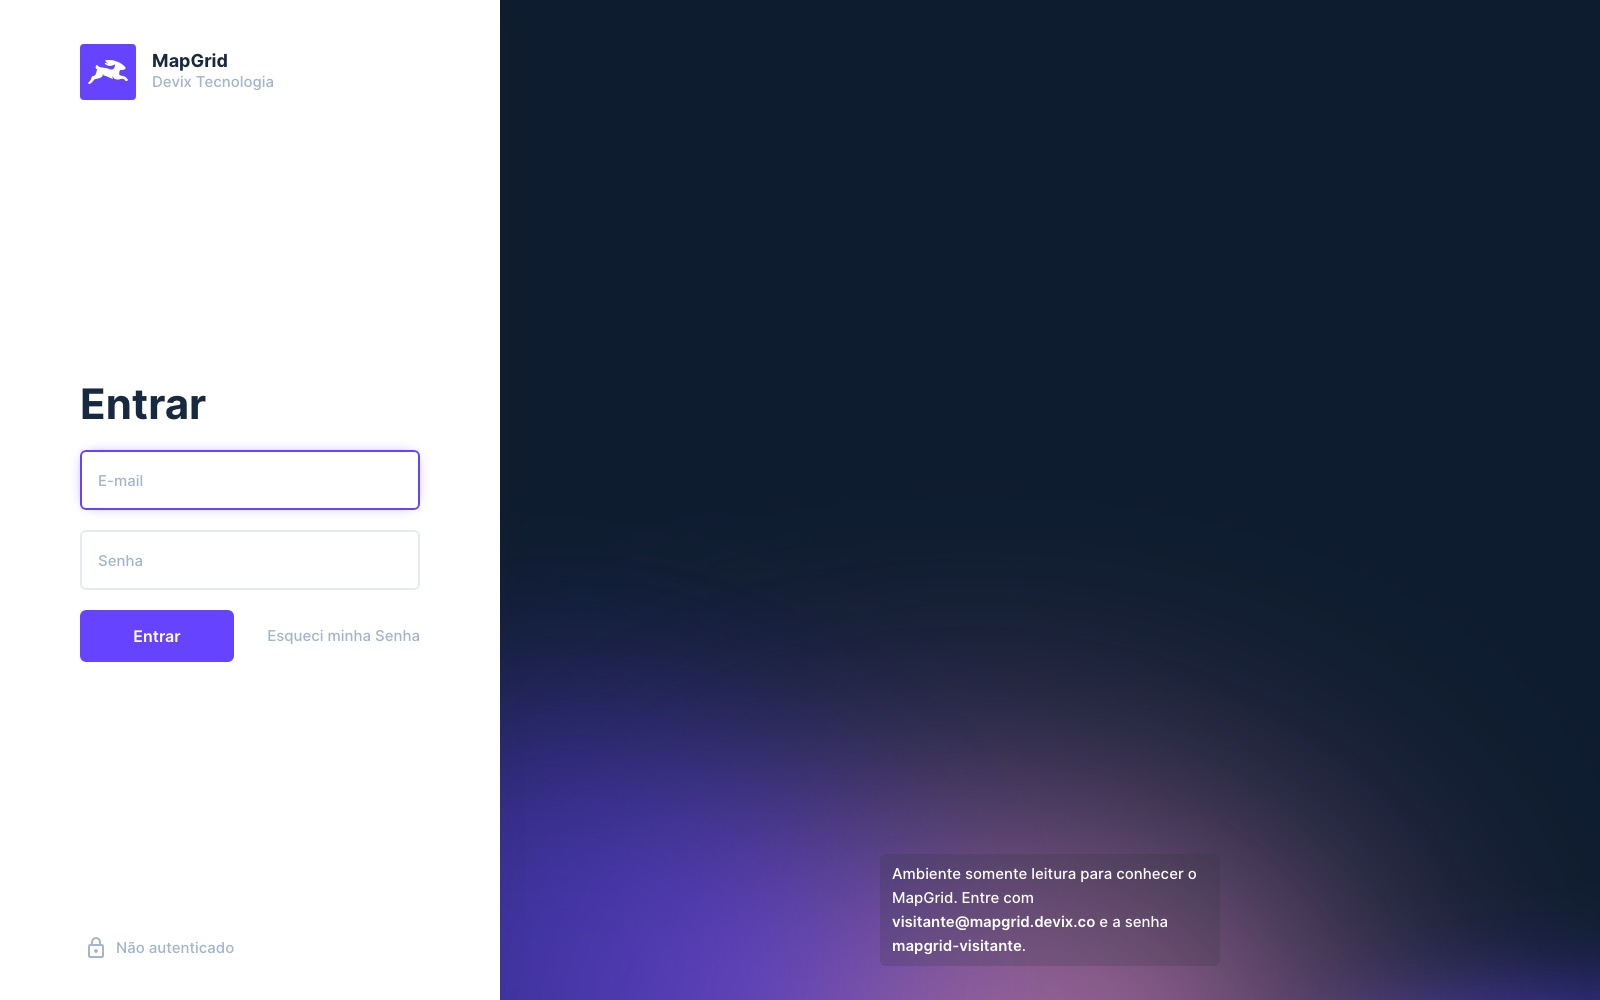
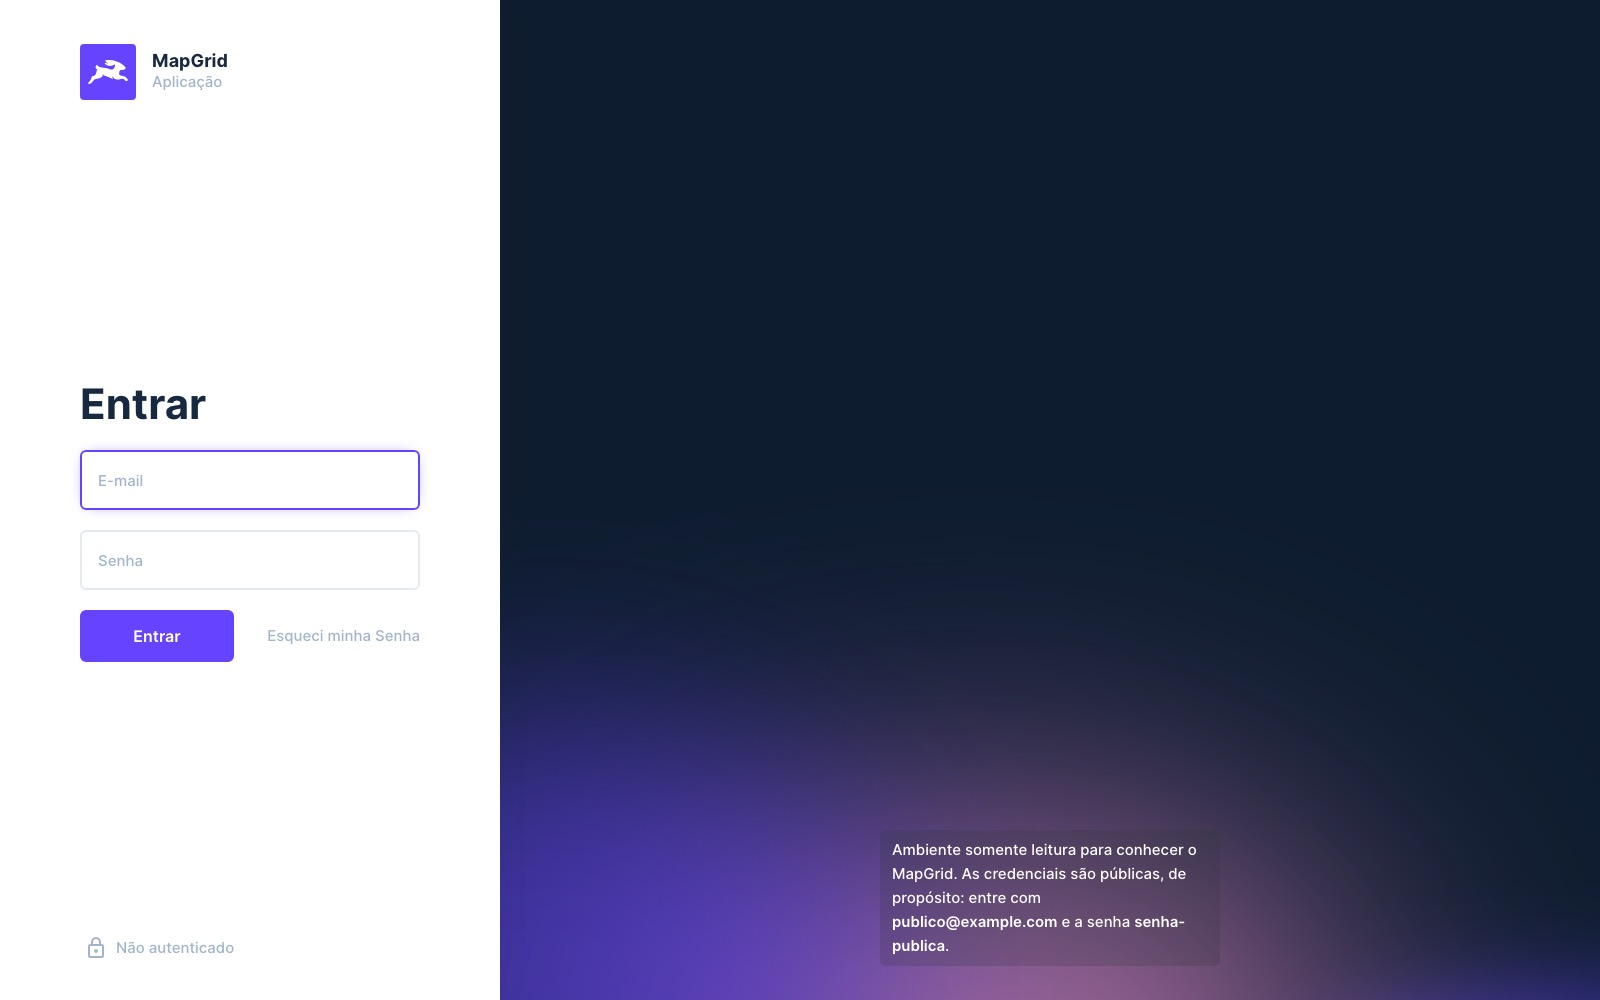
chore: credenciais que se leem como publicas
publico@example.com / senha-publica, admin@example.com por padrao, sem o
nome da empresa na tela de entrada, e a nota dizendo que sao publicas de
proposito.

Changed region(s): [[0.5625, 0.837, 0.75, 0.961], [0.0938, 0.062, 0.1562, 0.093]]

diff --git a/scripts/demo.seed.spec.ts b/scripts/demo.seed.spec.ts
@@ -23,8 +23,8 @@ const required = (name: string): string => {
 };
 
 const visitor: DemoVisitor = {
-  email: process.env.DEMO_USER_EMAIL || 'visitante@mapgrid.devix.co',
-  password: process.env.DEMO_USER_PASSWORD || 'mapgrid-visitante',
+  email: process.env.DEMO_USER_EMAIL || 'publico@example.com',
+  password: process.env.DEMO_USER_PASSWORD || 'senha-publica',
 };
 
 /** Grande Vitória, where the readings are. */
@@ -43,7 +43,7 @@ it('seeds the demo and leaves it read-only', async () => {
   await waitForCondition(isDirectusHealthy, { intervalMs: 2_000, timeoutMs: 180_000 });
   setAccessToken(
     await signIn(
-      process.env.DEMO_ADMIN_EMAIL || 'admin@mapgrid.devix.co',
+      process.env.DEMO_ADMIN_EMAIL || 'admin@example.com',
       required('DEMO_ADMIN_PASSWORD')
     )
   );

diff --git a/scripts/demo/demo-access.ts b/scripts/demo/demo-access.ts
@@ -93,9 +93,9 @@ export class DemoAccess implements IDemoAccess {
   async presentProject(visitor: DemoVisitor): Promise<void> {
     await apiRequest('PATCH', '/settings', {
       project_name: 'MapGrid',
-      project_descriptor: 'Devix Tecnologia',
+      project_descriptor: null,
       default_language: 'pt-BR',
-      public_note: `Ambiente somente leitura para conhecer o MapGrid. Entre com **${visitor.email}** e a senha **${visitor.password}**.`,
+      public_note: `Ambiente somente leitura para conhecer o MapGrid. As credenciais são públicas, de propósito: entre com **${visitor.email}** e a senha **${visitor.password}**.`,
     });
   }
 }

diff --git a/scripts/demo.ts b/scripts/demo.ts
@@ -50,7 +50,7 @@ const main = (): void => {
 
   console.log(`
 The MapGrid demo is up, read-only: ${DEMO_URL}
-  visitors: ${process.env.DEMO_USER_EMAIL || 'visitante@mapgrid.devix.co'} / ${process.env.DEMO_USER_PASSWORD || 'mapgrid-visitante'}
+  visitors: ${process.env.DEMO_USER_EMAIL || 'publico@example.com'} / ${process.env.DEMO_USER_PASSWORD || 'senha-publica'}
 
 Stop it with: pnpm demo down`);
 };

diff --git a/README.md b/README.md
@@ -151,17 +151,17 @@ pnpm build
 DEMO_ADMIN_PASSWORD='a strong one' pnpm demo
 ```
 
-It comes up on <http://localhost:8070>; visitors sign in as `visitante@mapgrid.devix.co` /
-`mapgrid-visitante`, which the login page shows. The seed ends by checking, as the visitor, that reading
+It comes up on <http://localhost:8070>; visitors sign in as `publico@example.com` /
+`senha-publica` — public on purpose, so nobody takes them for a leak — which the login page shows. The seed ends by checking, as the visitor, that reading
 works and writing is refused, and that anonymous requests are refused — a demo that turned writable
 fails there.
 
 | Variable | Default | |
 | --- | --- | --- |
 | `DEMO_ADMIN_PASSWORD` | — | Required: the demo never starts with a known admin password |
-| `DEMO_ADMIN_EMAIL` | `admin@mapgrid.devix.co` | |
+| `DEMO_ADMIN_EMAIL` | `admin@example.com` | |
 | `DEMO_PORT` / `DEMO_PUBLIC_URL` | `8070` / `http://localhost:8070` | Set the URL to the published address |
-| `DEMO_USER_EMAIL` / `DEMO_USER_PASSWORD` | `visitante@mapgrid.devix.co` / `mapgrid-visitante` | The visitor |
+| `DEMO_USER_EMAIL` / `DEMO_USER_PASSWORD` | `publico@example.com` / `senha-publica` | The visitor |
 | `DEMO_KEY` / `DEMO_SECRET` / `DEMO_DB_PASSWORD` | demo values | Replace them before publishing |
 
 Publishing it:
@@ -445,7 +445,8 @@ pnpm build
 DEMO_ADMIN_PASSWORD='uma senha forte' pnpm demo
 ```
 
-Sobe em <http://localhost:8070>; visitantes entram com `visitante@mapgrid.devix.co` / `mapgrid-visitante`,
+Sobe em <http://localhost:8070>; visitantes entram com `publico@example.com` / `senha-publica` — públicas de propósito, para
+ninguém tomá-las por vazamento —,
 que a tela de entrada mostra. A semente termina conferindo, como visitante, que ler funciona e
 escrever é recusado, e que requisições anônimas são recusadas — uma demonstração que virou
 gravável falha ali.
@@ -453,9 +454,9 @@ gravável falha ali.
 | Variável | Padrão | |
 | --- | --- | --- |
 | `DEMO_ADMIN_PASSWORD` | — | Obrigatória: a demonstração nunca sobe com senha de admin conhecida |
-| `DEMO_ADMIN_EMAIL` | `admin@mapgrid.devix.co` | |
+| `DEMO_ADMIN_EMAIL` | `admin@example.com` | |
 | `DEMO_PORT` / `DEMO_PUBLIC_URL` | `8070` / `http://localhost:8070` | Aponte a URL para o endereço publicado |
-| `DEMO_USER_EMAIL` / `DEMO_USER_PASSWORD` | `visitante@mapgrid.devix.co` / `mapgrid-visitante` | O visitante |
+| `DEMO_USER_EMAIL` / `DEMO_USER_PASSWORD` | `publico@example.com` / `senha-publica` | O visitante |
 | `DEMO_KEY` / `DEMO_SECRET` / `DEMO_DB_PASSWORD` | valores de demonstração | Troque antes de publicar |
 
 Para publicar:

diff --git a/TASKS/task-026-apresentacao-guiada-e-demonstracao-somente-leitura.md b/TASKS/task-026-apresentacao-guiada-e-demonstracao-somente-leitura.md
@@ -51,8 +51,9 @@ importa — o que pular, onde pôr — ficou em duas classes puras e testadas.
 - um `:?` no compose impede até o `down`.
 
 ### Sem a palavra "demo" no que o visitante vê
-Pedido do Sidarta: o visitante entra como `visitante@mapgrid.devix.co` /
-`mapgrid-visitante`, o projeto se chama "MapGrid" e o papel "Visitante
+Pedido do Sidarta: credenciais que se leiam como públicas, para ninguém
+tomá-las por vazamento — o visitante entra como `publico@example.com` /
+`senha-publica` (o `example.com` é reservado para exemplos), o projeto se chama "MapGrid" e o papel "Visitante
 (somente leitura)". Os nomes de uso interno — `pnpm demo`,
 `docker-compose.demo.yml`, as variáveis `DEMO_*` — ficaram como estão.
 
